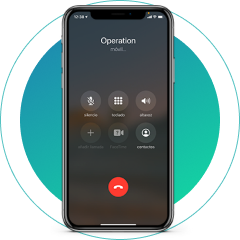
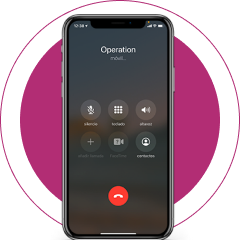
блок pay готов

diff --git a/src/sass/block/pay.scss b/src/sass/block/pay.scss
@@ -1,11 +1,12 @@
 
 .pay__title {
     margin-bottom: 30px;
-    font-size: 48px;
+    font-size: 58px;
     font-weight: 500;
     line-height: 1;
     text-transform: uppercase;
-    text-align: center;
+    color: #B22D74;
+    letter-spacing: -0.01em;
 }
 
 .pay__body {
@@ -39,6 +40,7 @@
 
     .pay__title {
         margin-bottom: 60px;
+        text-align: center;
     }
 }
 

diff --git a/src/sass/core/section.scss b/src/sass/core/section.scss
@@ -20,6 +20,10 @@
     &_order {
         background-color: #FFF2EF;
     }
+
+    &_pay {
+        background-color: #FFF2EF;
+    }
 }
 
 .section__title {
